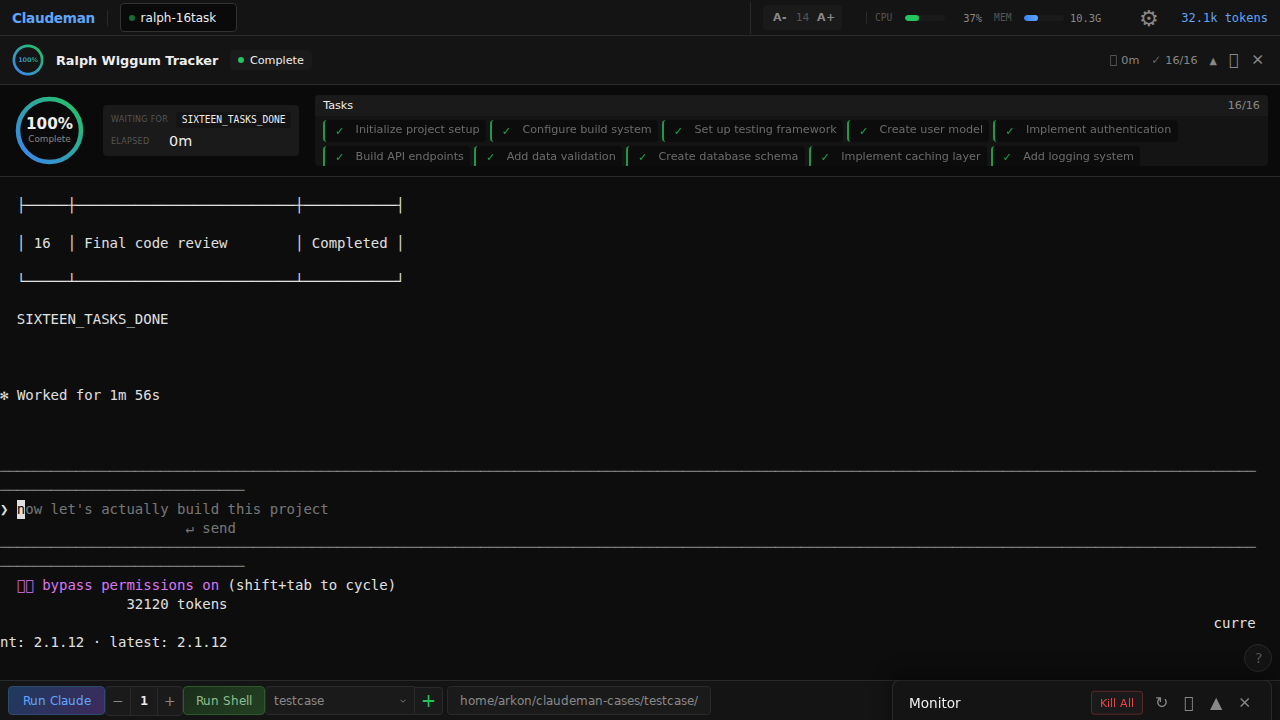
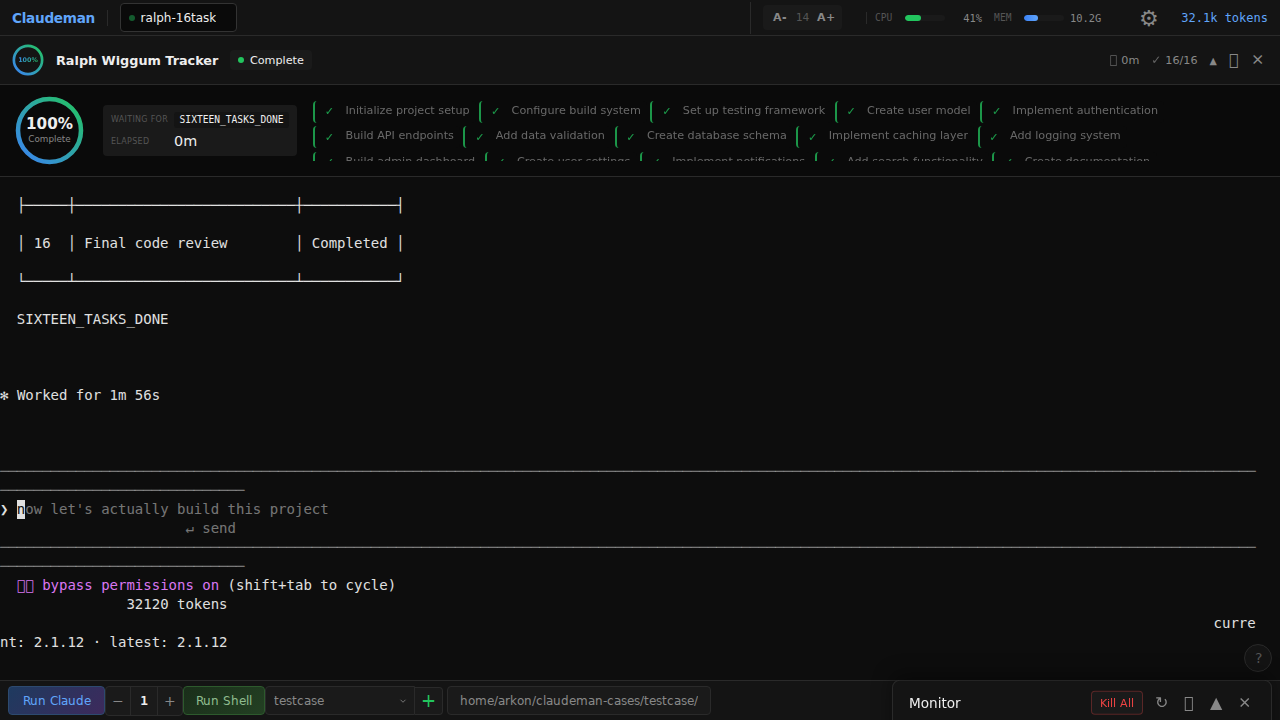
style: remove redundant Tasks header from Ralph panel
The task count is already shown in the summary bar (✓ 16/16), so the
"Tasks" header in the expanded view was redundant. Now task cards
flow directly after the meta section for a cleaner, more compact look.

diff --git a/src/web/public/styles.css b/src/web/public/styles.css
@@ -690,23 +690,20 @@ body {
 /* Compact Tasks Section */
 .ralph-tasks-compact {
   flex: 1;
-  background: var(--bg-card);
-  border-radius: 4px;
   overflow: hidden;
-  max-height: 80px;
+  min-width: 0;
 }
 
 .ralph-tasks-compact .ralph-tasks-header {
-  padding: 0.25rem 0.5rem;
-  font-size: 0.7rem;
+  display: none;
 }
 
 .ralph-tasks-compact .ralph-tasks-grid {
   display: flex;
   flex-wrap: wrap;
-  gap: 0.25rem;
-  padding: 0.25rem 0.5rem;
-  max-height: 50px;
+  gap: 0.2rem;
+  padding: 0;
+  max-height: 60px;
   overflow-y: auto;
 }
 
